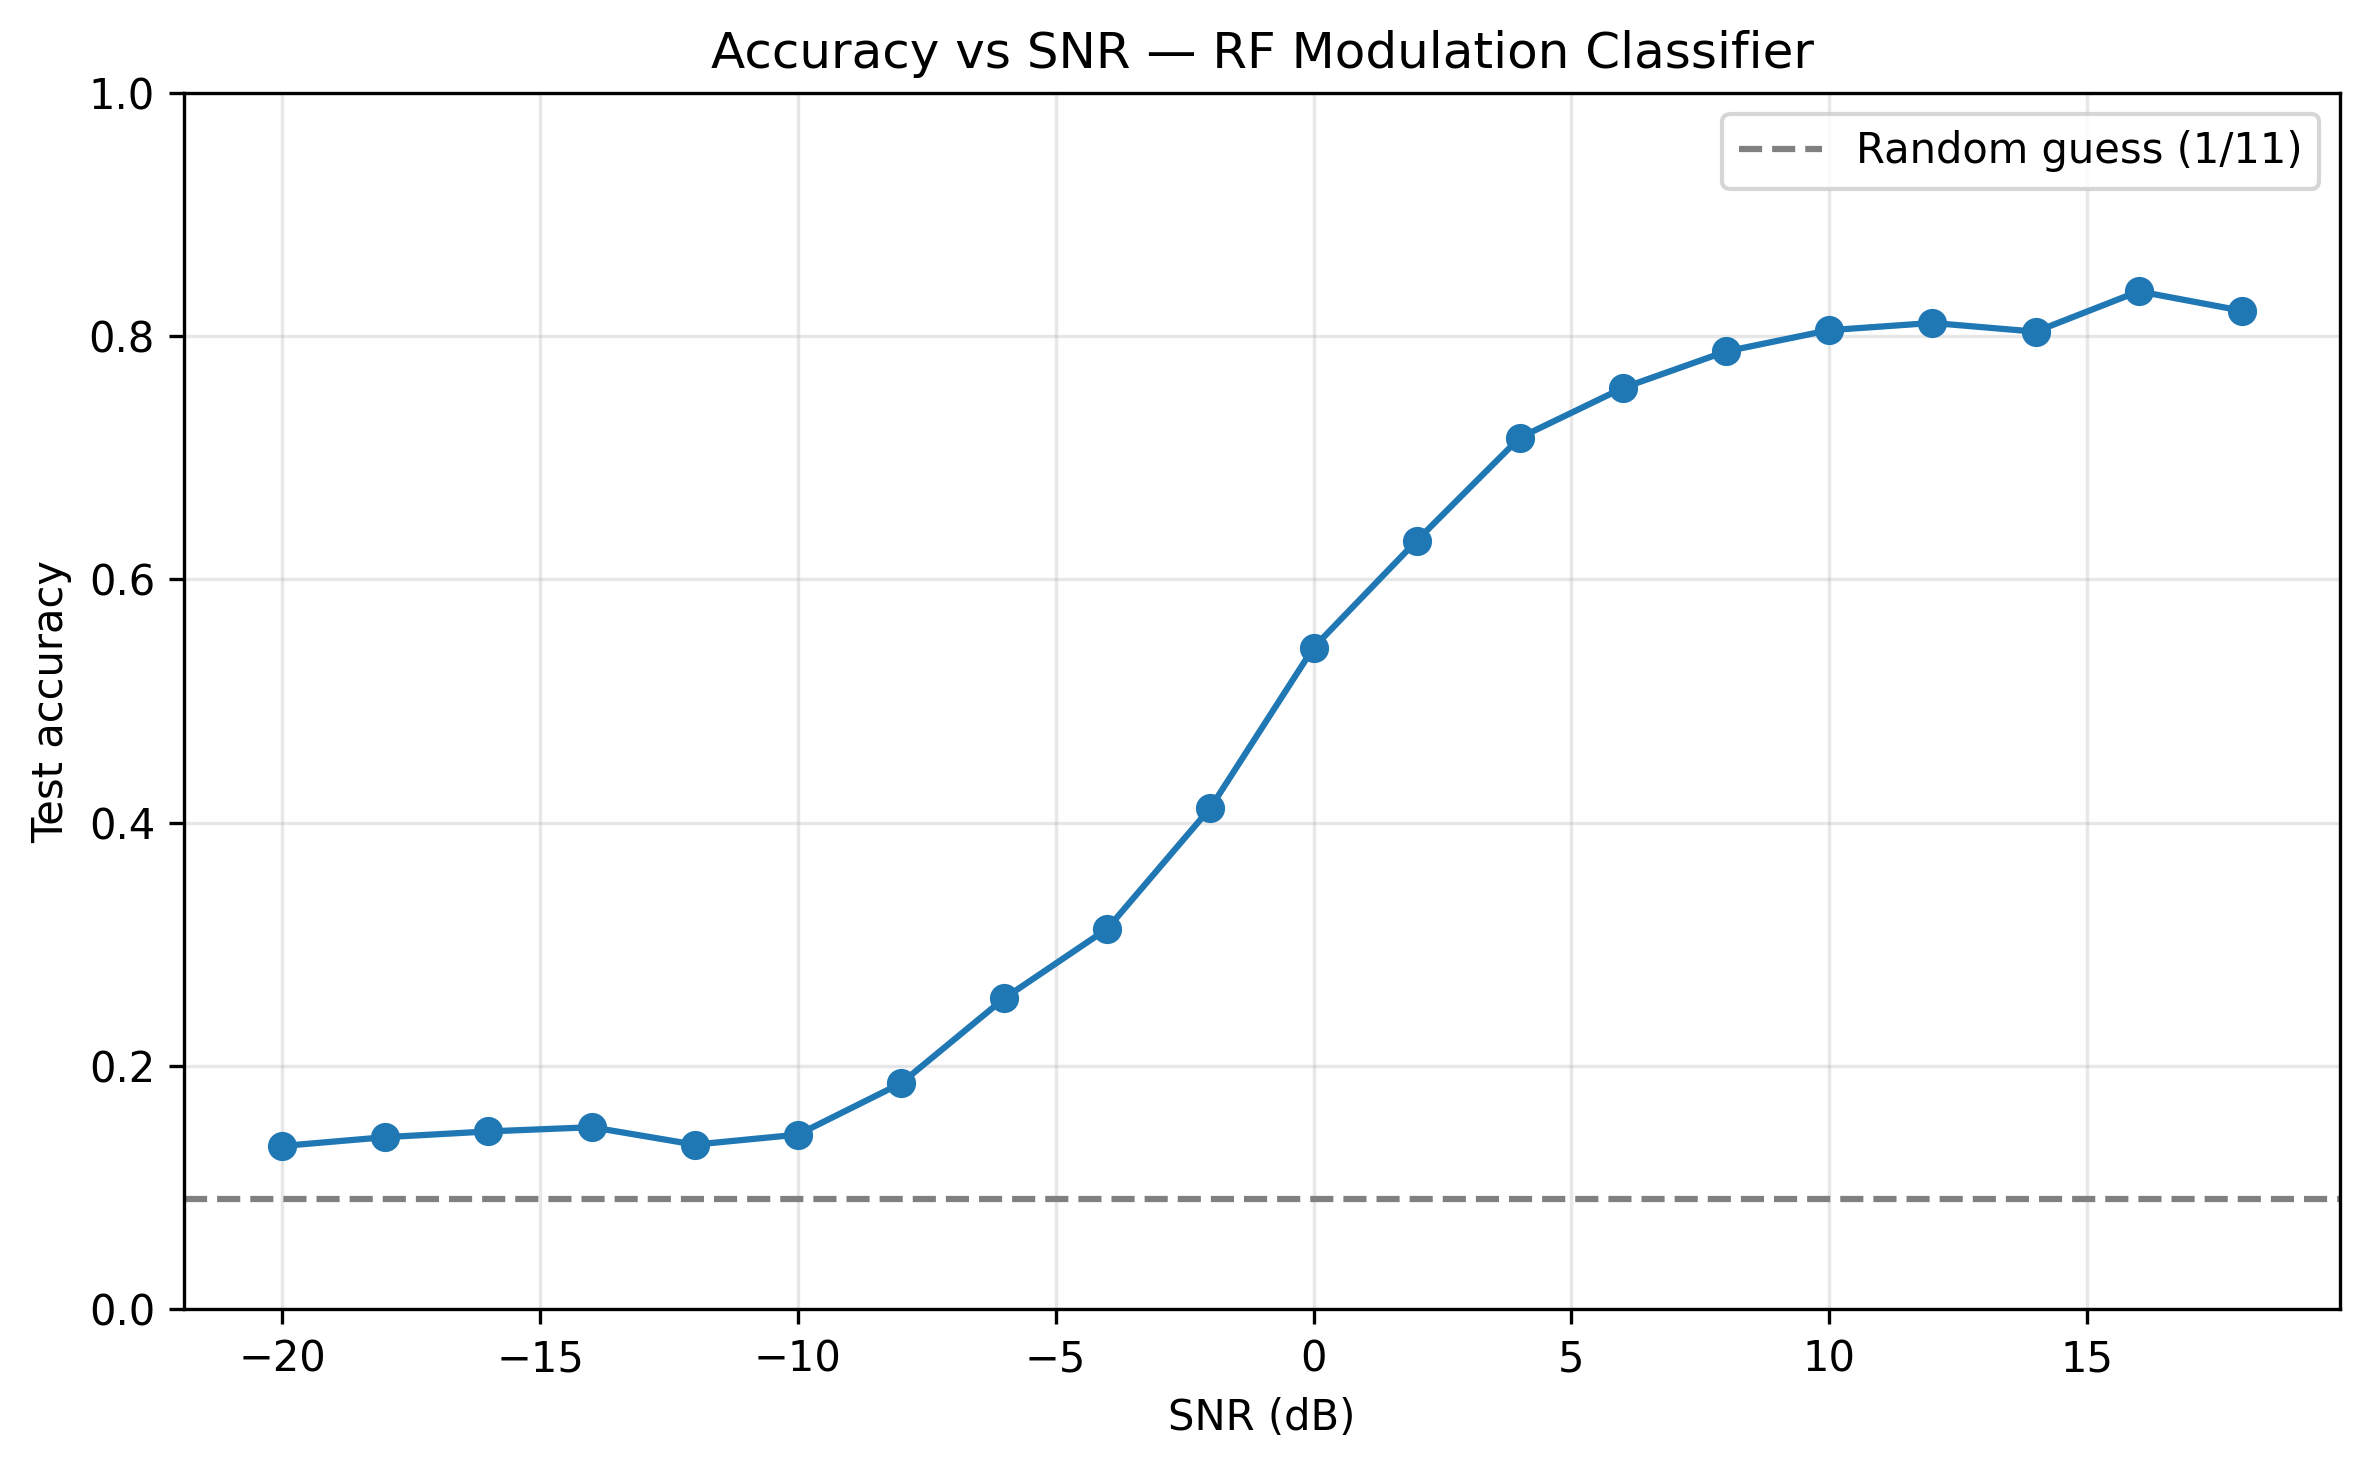
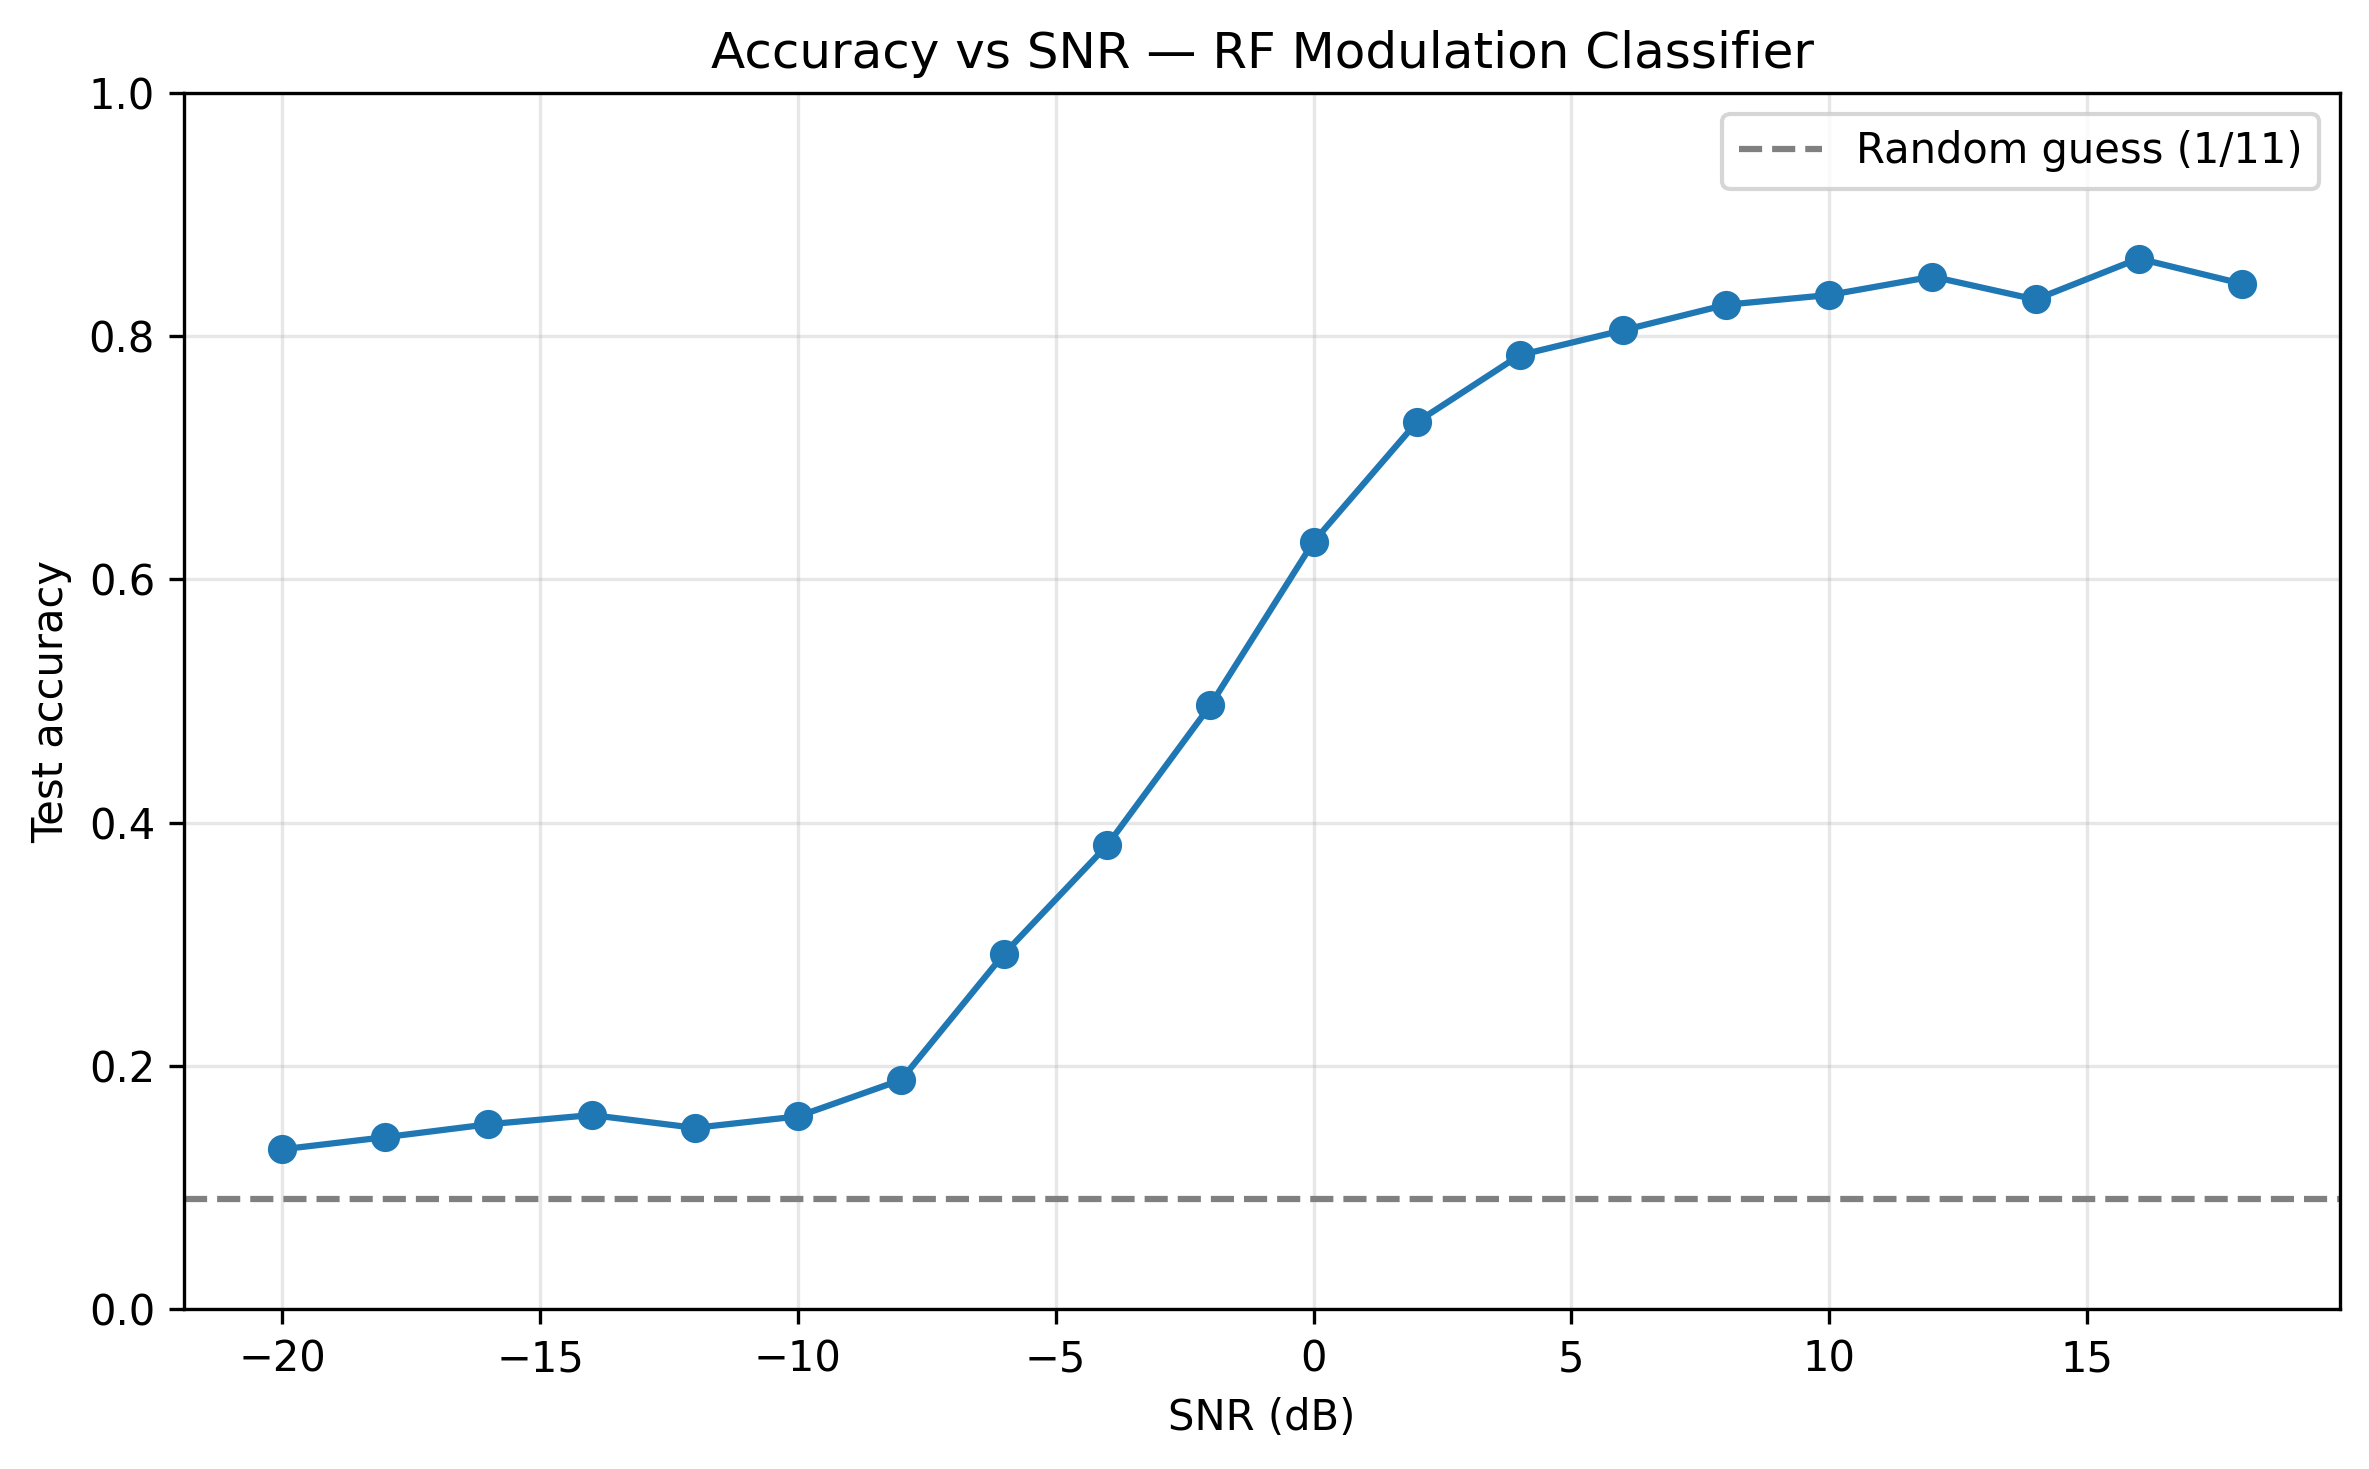
Add higher-order cumulant features, high-SNR metric, feature-importance plot (#2)

diff --git a/src/features.py b/src/features.py
@@ -22,6 +22,10 @@ FEATURE_NAMES = [
     "fft_power_std",
     "fft_power_skew",
     "fft_power_kurt",
+    "cumulant_c20",
+    "cumulant_c40",
+    "cumulant_c41",
+    "cumulant_c42",
 ]
 
 
@@ -55,6 +59,23 @@ def extract_features(sample):
     fft_skew = stats.skew(fft_power)
     fft_kurt = stats.kurtosis(fft_power)
 
+    # Higher-order cumulants of the complex signal. These separate dense
+    # constellations (QAM16 vs QAM64) and the PSK family far better than the
+    # amplitude/phase moments above. The signal is zero-meaned and normalised
+    # to unit average power so the cumulants are scale-invariant across SNR.
+    s = complex_signal - np.mean(complex_signal)
+    power = np.mean(np.abs(s) ** 2)
+    s = s / np.sqrt(power + 1e-12)
+    m20 = np.mean(s**2)
+    m21 = np.mean(np.abs(s) ** 2)  # == 1 after normalisation
+    m40 = np.mean(s**4)
+    m41 = np.mean(s**3 * np.conj(s))
+    m42 = np.mean(np.abs(s) ** 4)
+    c20 = np.abs(m20)
+    c40 = np.abs(m40 - 3 * m20**2)
+    c41 = np.abs(m41 - 3 * m20 * m21)
+    c42 = np.abs(m42 - np.abs(m20) ** 2 - 2 * m21**2)
+
     return np.array(
         [
             amp_mean,
@@ -69,6 +90,10 @@ def extract_features(sample):
             fft_std,
             fft_skew,
             fft_kurt,
+            c20,
+            c40,
+            c41,
+            c42,
         ],
         dtype=np.float32,
     )

diff --git a/src/pipeline.py b/src/pipeline.py
@@ -4,7 +4,8 @@ Run from the repo root:
 
     uv run python src/pipeline.py
 
-Outputs the confusion matrix and accuracy-vs-SNR curve to notebooks/.
+Outputs confusion matrix, accuracy-vs-SNR curve, and feature-importance
+plot to outputs/.
 """
 
 from pathlib import Path
@@ -12,8 +13,13 @@ from pathlib import Path
 from sklearn.metrics import classification_report
 
 from dataset import build_feature_matrix
-from model import accuracy_vs_snr, split, train_classifier
-from visualise import plot_accuracy_vs_snr, plot_confusion_matrix
+from features import FEATURE_NAMES
+from model import accuracy_vs_snr, high_snr_accuracy, split, train_classifier
+from visualise import (
+    plot_accuracy_vs_snr,
+    plot_confusion_matrix,
+    plot_feature_importance,
+)
 
 OUT_DIR = Path(__file__).resolve().parent.parent / "outputs"
 
@@ -32,12 +38,19 @@ def main():
     y_pred = model.predict(X_test)
 
     acc = model.score(X_test, y_test)
-    print(f"\nOverall test accuracy: {acc:.4f}  (random guess = {1/11:.4f})\n")
+    acc_high = high_snr_accuracy(model, X_test, y_test, snr_test, threshold=6)
+    print(f"\nOverall test accuracy : {acc:.4f}  (random guess = {1/11:.4f})")
+    print(f"High-SNR accuracy (>=6 dB): {acc_high:.4f}\n")
     print(classification_report(y_test, y_pred))
 
     plot_confusion_matrix(
         y_test, y_pred, labels=model.classes_,
         save_path=OUT_DIR / "confusion_matrix.png", show=False,
+    )
+
+    plot_feature_importance(
+        model.feature_importances_, FEATURE_NAMES,
+        save_path=OUT_DIR / "feature_importance.png", show=False,
     )
 
     snr_levels, accuracies = accuracy_vs_snr(model, X_test, y_test, snr_test)

diff --git a/src/visualise.py b/src/visualise.py
@@ -38,6 +38,24 @@ def plot_confusion_matrix(y_test, y_pred, labels, save_path=None, show=True):
     return fig
 
 
+def plot_feature_importance(importances, feature_names, save_path=None, show=True):
+    """Horizontal bar chart of Random Forest feature importances, sorted."""
+    order = importances.argsort()
+    names = [feature_names[i] for i in order]
+    fig, ax = plt.subplots(figsize=(8, 6))
+    ax.barh(range(len(order)), importances[order])
+    ax.set_yticks(range(len(order)))
+    ax.set_yticklabels(names)
+    ax.set_xlabel("Importance (mean decrease in impurity)")
+    ax.set_title("Random Forest Feature Importance")
+    plt.tight_layout()
+    if save_path:
+        plt.savefig(save_path, dpi=300, bbox_inches="tight")
+    if show:
+        plt.show()
+    return fig
+
+
 def plot_accuracy_vs_snr(snr_levels, accuracies, save_path=None, show=True):
     """Test accuracy as a function of SNR (the SNR sweep result)."""
     fig, ax = plt.subplots(figsize=(8, 5))

diff --git a/src/model.py b/src/model.py
@@ -21,6 +21,17 @@ def train_classifier(X_train, y_train, n_estimators=100, random_state=42):
     return model
 
 
+def high_snr_accuracy(model, X_test, y_test, snr_test, threshold=6):
+    """Test accuracy restricted to samples at or above ``threshold`` dB.
+
+    The pooled all-SNR accuracy is dragged down by deep-noise samples that are
+    near-unclassifiable. This reports the operating regime where the signal is
+    actually present.
+    """
+    mask = snr_test >= threshold
+    return model.score(X_test[mask], y_test[mask])
+
+
 def accuracy_vs_snr(model, X_test, y_test, snr_test):
     """Compute test accuracy at each SNR level.
 

diff --git a/README.md b/README.md
@@ -34,23 +34,35 @@ and drop the file at `data/RML2016.10a_dict.dat`.
 ## Method
 
 1. **Feature extraction** ([`src/features.py`](src/features.py)) — each
-   `(2, 128)` window is reduced to **12 statistical features** spanning four
+   `(2, 128)` window is reduced to **16 statistical features** spanning five
    views of the signal:
    - **Amplitude** `√(I²+Q²)`: mean, std, skew, kurtosis
    - **Phase** (unwrapped `atan2`): mean, std
    - **Instantaneous frequency** (derivative of phase): mean, std
    - **FFT power spectrum**: mean, std, skew, kurtosis
+   - **Higher-order cumulants** (`|C20|`, `|C40|`, `|C41|`, `|C42|`) of the
+     unit-power complex signal — the classical discriminators for separating
+     dense constellations (QAM/PSK families).
 2. **Classifier** ([`src/model.py`](src/model.py)) — `RandomForestClassifier`
    (100 trees), stratified 80/20 train/test split. The per-sample SNR is
    carried through the split so accuracy can be measured at each SNR level.
-3. **Evaluation** ([`src/visualise.py`](src/visualise.py)) — confusion matrix
-   and the accuracy-vs-SNR sweep.
+3. **Evaluation** ([`src/visualise.py`](src/visualise.py)) — confusion matrix,
+   accuracy-vs-SNR sweep, and feature-importance ranking.
 
 ## Results
 
-**Overall test accuracy: 47.7%** across all SNRs (random guess = 1/11 ≈ 9%),
-on a held-out 20% test set (44,000 samples). The pooled number is dragged down
-by the deep-noise samples — the SNR sweep shows the real story.
+On a held-out 20% test set (44,000 samples), random guess = 1/11 ≈ 9%:
+
+| Metric | Accuracy |
+|---|---|
+| Pooled (all SNRs) | **51.3%** |
+| High-SNR (≥ +6 dB) | **83.6%** |
+
+The pooled number is dragged down by deep-noise samples that are physically
+near-unclassifiable; the high-SNR figure reflects the regime where the signal
+is actually present. Adding the higher-order cumulants lifted pooled accuracy
+from 47.7% → 51.3%, with the biggest gains on the PSK family (BPSK F1
+0.50 → 0.63, QPSK 0.40 → 0.49).
 
 ### Accuracy vs SNR
 
@@ -58,18 +70,27 @@ by the deep-noise samples — the SNR sweep shows the real story.
 
 | SNR | −20 dB | −10 dB | −4 dB | 0 dB | +6 dB | +12 dB | +16 dB |
 |---|---|---|---|---|---|---|---|
-| Accuracy | 0.13 | 0.14 | 0.31 | 0.54 | 0.76 | 0.81 | **0.84** |
+| Accuracy | 0.13 | 0.16 | 0.38 | 0.63 | 0.81 | 0.85 | **0.86** |
 
 Accuracy sits near chance (~13%) below −10 dB where the signal is buried in
-noise, climbs steeply from −4 dB through 0 dB, and plateaus around **80–84%**
+noise, climbs steeply from −4 dB through 0 dB, and plateaus around **83–86%**
 above +6 dB — the expected shape for feature-based AMC.
 
 ### Confusion Matrix
 
 ![Confusion Matrix](outputs/confusion_matrix.png)
 
-Most error mass falls between modulations that look alike in these features
-(e.g. QAM16 vs QAM64, the analog AM/WBFM group).
+Most error mass falls between modulations that look alike in these features —
+QAM16 vs QAM64 (dense constellations stay hard at 128-sample windows) and the
+analog AM/WBFM group.
+
+### Feature Importance
+
+![Feature Importance](outputs/feature_importance.png)
+
+The added cumulant `|C20|` is the single most important feature, ahead of the
+instantaneous-frequency and amplitude spread — confirming the cumulants earn
+their place rather than just padding the vector.
 
 > Classical features cap out well below deep-learning AMC (CNNs on this set
 > reach ~60% overall). The point here is an interpretable, fast baseline and a
@@ -79,16 +100,17 @@ Most error mass falls between modulations that look alike in these features
 
 ```
 src/
-  features.py    extract_features(sample) -> 12-dim vector
+  features.py    extract_features(sample) -> 16-dim vector (incl. cumulants)
   dataset.py     load + cache feature matrix (keeps per-sample SNR)
-  model.py       train/test split, Random Forest, accuracy_vs_snr sweep
-  visualise.py   plot_iq, confusion matrix, accuracy-vs-SNR curve
+  model.py       split, Random Forest, accuracy_vs_snr + high_snr_accuracy
+  visualise.py   plot_iq, confusion matrix, accuracy-vs-SNR, feature importance
   pipeline.py    end-to-end runner
 notebooks/
   01_eda.ipynb   exploratory analysis narrative
 outputs/
   confusion_matrix.png
   accuracy_vs_snr.png
+  feature_importance.png
 ```
 
 ## Run
@@ -104,5 +126,6 @@ uv sync
 uv run python src/pipeline.py
 ```
 
-Outputs `outputs/confusion_matrix.png` and `outputs/accuracy_vs_snr.png`,
-and prints the per-class report and per-SNR accuracy table.
+Writes the confusion matrix, accuracy-vs-SNR curve, and feature-importance
+plot to `outputs/`, and prints the per-class report, pooled/high-SNR accuracy,
+and per-SNR accuracy table.